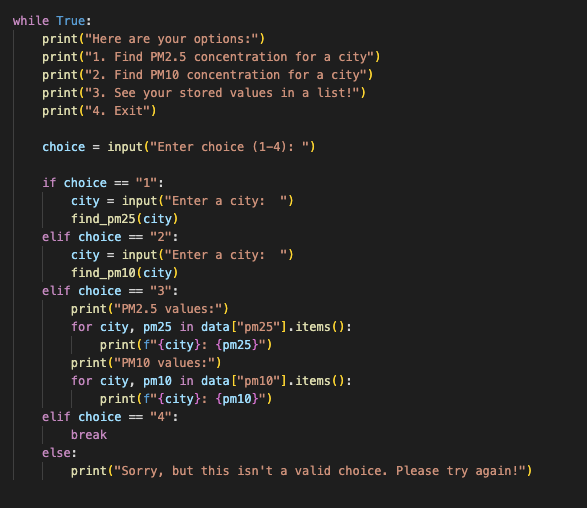
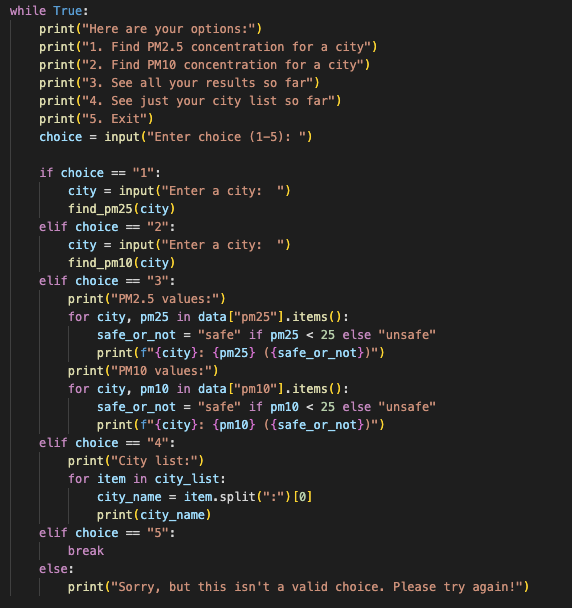
deploy: 270aec39ec0b9e07bbbbfd8a48670fbbe9d8b9ab

Changed region(s): [[0.0594, 0.2657, 0.9213, 0.9744], [0.0, 0.0, 0.6538, 0.2362]]

diff --git a/trimester 3/2023/04/14/new-cpt.html b/trimester 3/2023/04/14/new-cpt.html
@@ -171,7 +171,7 @@ window.onload = wrap_img;
 <h3 id="3aiii">
 <a class="anchor" href="#3aiii" aria-hidden="true"><span class="octicon octicon-link"></span></a>3.a.iii.</h3>
 
-<p>This program is designed to test a user’s reaction time by presenting them with circular targets on the screen. The user must click on each target, after which the target will be resized and relocated to a new random position in the game container. The objective is to score as many points as possible within a 15-second time limit. The user must pay 15 tokens to play, and their score will determine the number of tokens they earn. The program displays real-time updates of the user’s token balance and overall game performance. This project demonstrates the use of a currency system and how it can be integrated into a game-like application.</p>
+<p>This program is designed to retrieve air quality data for cities around the world. It does so by making requests to an API and storing the data in a dictionary called “data”. The program provides users with a menu of options to select from, including the ability to retrieve PM2.5 or PM10 concentrations for a specific city, view all results, or see a list of cities that have been searched. The goal of the program is to help users make informed decisions about air quality and take appropriate precautions if necessary.</p>
 
 <h2 id="3b">
 <a class="anchor" href="#3b" aria-hidden="true"><span class="octicon octicon-link"></span></a>3b.</h2>
@@ -189,18 +189,17 @@ window.onload = wrap_img;
 <h3 id="3biii">
 <a class="anchor" href="#3biii" aria-hidden="true"><span class="octicon octicon-link"></span></a>3.b.iii.</h3>
 
-<p>The name of the variable representing the collection type is “pm25”, which is a dictionary consisting of the stored concentration values of pm25 in the inputted cities by the user.</p>
+<p>The variable representing the list used in this program is city_list. This list is used to store the names of cities for which PM2.5 or PM10 concentration data has been collected.</p>
 
 <h3 id="3biv">
 <a class="anchor" href="#3biv" aria-hidden="true"><span class="octicon octicon-link"></span></a>3.b.iv.</h3>
 
-<p>The second image represents the usage of the code, and as mentioned previously, the collection type “pm25” serves as a dictionary to not only output the respective concentration value of the city, but also store the user’s inputs if the option 3 is selected from the menu. Essentially, it serves as a collection type, specifically a dictionary. It is being used to store the PM2.5 concentrations for different cities. Each key in the pm25 dictionary represents a city and its value is the corresponding PM2.5 concentration.</p>
+<p>The second image represents the usage of the code, and is executed when the user chooses option 4 in the main while loop. It loops over the city_list list and prints out each city name after stripping off any concentration data that may have been accidentally added to the name. This list purely represented the names of the cities which the user has already inputted into the machine so far, so that they may keep track of the cities whose air qualities they have already judged.</p>
 
 <h3 id="3bv">
 <a class="anchor" href="#3bv" aria-hidden="true"><span class="octicon octicon-link"></span></a>3.b.v.</h3>
 
-<p>The data dictionary is used to store the collected PM2.5 concentration data with the key pm25 pointing to a sub-dictionary that stores data for different cities. Storing the PM2.5 concentration data in a collection type allows the program to easily access and manipulate the data. By using a dictionary to store the data, the program can quickly look up PM2.5 concentration data for a specific city by accessing the corresponding key in the data dictionary. The importance of pm25 as a collection type is that it allows the program to store and retrieve PM2.5 concentration data for various cities over multiple runs of the program. By storing the data in a collection type, the program can access the previously collected data when the user requests PM2.5 concentration data for a city that has already been searched. This avoids making unnecessary API requests and saves time and resources.</p>
-
+<p>The named list in the code, represented by the variable city_list, is used to manage the complexity of the program by keeping track of the cities that the user has searched for. Without this list, it would be difficult to keep track of the cities that have already been searched and to display them when the user chooses to view the list. If the program did not use this list, the user would have to remember the cities they have searched for or write them down manually, which would be inconvenient and could lead to errors. Additionally, if the program did not use a list, it would be more difficult to scale the program to include additional functionality or data sources because the city search functionality would be tightly coupled to the code that displays the search history.</p>
 <h2 id="3c">
 <a class="anchor" href="#3c" aria-hidden="true"><span class="octicon octicon-link"></span></a>3.c.</h2>
 
@@ -217,12 +216,12 @@ window.onload = wrap_img;
 <h3 id="3ciii">
 <a class="anchor" href="#3ciii" aria-hidden="true"><span class="octicon octicon-link"></span></a>3.c.iii.</h3>
 
-<p>The procedures here are “find_pm25” and “find_pm10”. As the names imply, these functions are able to return a numerical integer that represents the pm25 or pm10 concentration, respectively, of any given city in the United States. It is called in the while loop, as it is required for achieving the objective of the menu of options. If either choice is selected, the terminal will prompt the user to enter a city name, and will then return the respective concentrations.</p>
+<p>The procedure here is “find_pm25” and in this procedure, city is a parameter that determines which city’s PM2.5 data is retrieved and displayed. If city were not passed as a parameter, the procedure would not know which city’s data to retrieve and would not be able to display the correct information. This functionality allows the user to input a city and obtain information on its PM2.5 concentration level. The stored concentration data can be later used to generate a report of all the cities and their respective PM2.5 concentration levels. The city_list allows the user to keep track of the cities they have searched for, which can be useful for future reference. Essentially, these procedures contribute to the program’s functionality by providing an interactive way to obtain and store air quality data for cities.</p>
 
 <h3 id="3civ">
 <a class="anchor" href="#3civ" aria-hidden="true"><span class="octicon octicon-link"></span></a>3.c.iv.</h3>
 
-<p>Here, sequencing, selection, and iteration are used to provide a user-friendly interface for finding air quality information for different cities. The code uses sequencing to display a menu of options for the user to choose from. The menu includes the following options: finding the PM2.5 concentration for a city, finding the PM10 concentration for a city, viewing the stored values for PM2.5 and PM10 concentrations for cities, and exiting the program. Selection is used to determine which action the user wants to perform based on the choice they make. If the user chooses option 1, they will be prompted to enter a city, and the function find_pm25 will be called to retrieve and display the PM2.5 concentration for that city. If the user chooses option 2, they will be prompted to enter a city, and the function find_pm10 will be called to retrieve and display the PM10 concentration for that city. If the user chooses option 3, the stored PM2.5 and PM10 values for each city will be displayed using iteration. Finally, if the user chooses option 4, the program will exit.</p>
+<p>The while loop in the given code utilizes sequencing, selection, and iteration to create a simple interactive program. The loop starts by displaying the user’s options, where the user can input a choice from 1 to 5. The selection process then checks the user’s input, and if the input is valid, the program executes the corresponding block of code. This process of selection and sequencing is repeated until the user chooses to exit, which occurs when they input the number 5. The iteration occurs through the loop’s repeated execution, as it iterates through the user’s input and corresponding actions. Within each of the selection blocks, additional sequencing occurs through the execution of multiple lines of code. For example, within the “Find PM2.5 concentration for a city” block, the sequence of events is as follows: the user inputs a city name, the code calls the “find_pm25” function, the function makes an API call and processes the data, and then the program prints out the resulting concentration level and safety information.</p>
 
 <h2 id="3d">
 <a class="anchor" href="#3d" aria-hidden="true"><span class="octicon octicon-link"></span></a>3.d</h2>
@@ -233,13 +232,12 @@ window.onload = wrap_img;
 <h4 id="call-one">
 <a class="anchor" href="#call-one" aria-hidden="true"><span class="octicon octicon-link"></span></a>Call One</h4>
 
-<p>The first call is in the function to find and return the PM2.5 concentration for the city. If the function is successful, it should print a message indicating the PM2.5 concentration forthe city and whether it is a safe or unsafe level of air quality. If the function is not successful in finding data for the city, it should print a message indicating that there is no PM2.5 data available for the city.</p>
+<p>The first call is in the function “find_pm25” which will find and return the PM2.5 concentration for the city. This will execute the segment of code inside the find_pm25 procedure where a GET request is sent to the API to retrieve the PM2.5 concentration data for a city. If the data is available, the concentration level will be printed along with a message indicating whether the air quality is safe or not. The concentration value will then be added to the data dictionary and the city will be added to the city_list list.</p>
 
 <h4 id="call-two">
 <a class="anchor" href="#call-two" aria-hidden="true"><span class="octicon octicon-link"></span></a>Call Two</h4>
 
-<p>The second call is in the function to find and return the PM10 concentration for the city. If the function is successful, it should print a message indicating the PM10 concentration for the city and whether it is a safe or unsafe level of air quality. If the function is not successful in finding data for the city, it should print a message indicating that there is no PM10 data available for the city.</p>
-
+<p>The second call is in the function “find_pm10” which will find and return the PM10 concentration for the city. This will execute the segment of code inside the find_pm10 procedure where a GET request is sent to the API to retrieve the PM10 concentration data for city. If the data is available, the concentration level will be printed along with a message indicating whether the air quality is safe or not. The concentration value will then be added to the data dictionary and the city will be added to the city_list list.</p>
 <h3 id="3dii">
 <a class="anchor" href="#3dii" aria-hidden="true"><span class="octicon octicon-link"></span></a>3.d.ii.</h3>
 
@@ -251,7 +249,7 @@ window.onload = wrap_img;
 <h4 id="conditions-tested-by-call-two">
 <a class="anchor" href="#conditions-tested-by-call-two" aria-hidden="true"><span class="octicon octicon-link"></span></a>Condition(s) tested by Call Two</h4>
 
-<p>Call two is testing the condition pm10_concentration[“concentration”] &lt; 25 in the find_pm10 function. If the condition is true, the program will execute the code block that prints “This is a safe level of air quality. Enjoy!” and stores the PM10 concentration value in the data dictionary under the key pm10. If the condition is false, the program will execute the code block that prints “This is unsafe air quality. Be cautious!” and stores the PM10 concentration value in the data dictionary under the key pm10.</p>
+<p>The second call to the find_pm10 procedure is testing whether the concentration of PM10 in a given city is less than 25. If the concentration is less than 25, the code will print “This is a safe level of air quality. Enjoy!”. Otherwise, it will print “This is unsafe air quality. Be cautious!”.</p>
 
 <h3 id="3diii">
 <a class="anchor" href="#3diii" aria-hidden="true"><span class="octicon octicon-link"></span></a>3.d.iii.</h3>
